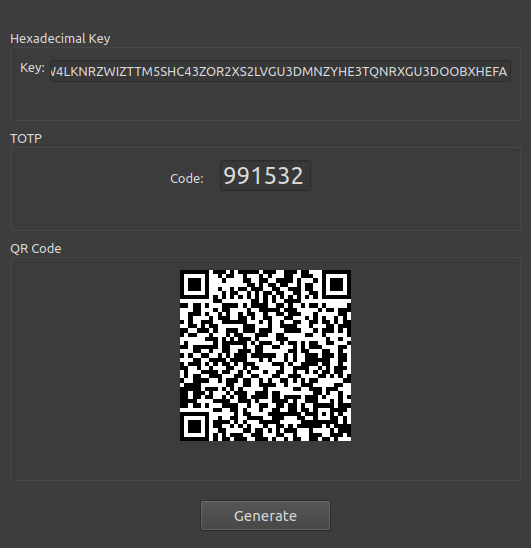
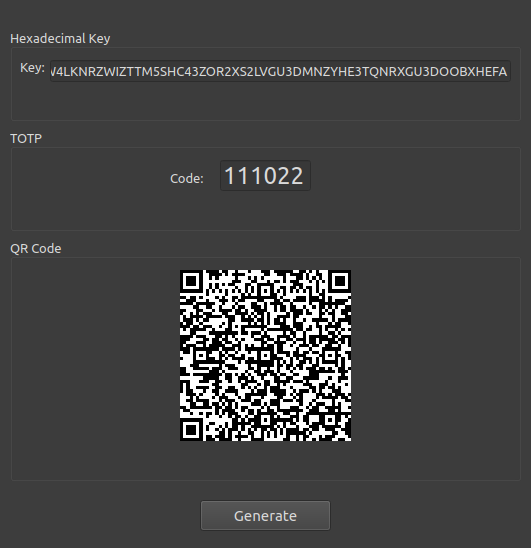
Correct QR code PNG rendering

diff --git a/core/qrencode.cpp b/core/qrencode.cpp
@@ -16,7 +16,7 @@
  * For a scale of 10 and margin of 4 modules,
  * it will be sufficiently large and compatible with most QR code scanners.
  */
-void saveQRCodeAsPNG(QRcode *qrcode, const char *filename, int scale) {
+void saveQRCodeAsPNG(QRcode *qrcode, const char *filename, int scale = OTP_QRCODE_SCALE) {
     // Define Dimensions for the image
     int size = qrcode->width;
     int png_width = size * scale; // Factor to scale up each QR code module for better readability.
@@ -85,23 +85,29 @@ void saveQRCodeAsPNG(QRcode *qrcode, const char *filename, int scale) {
      * Outer loop (y): Iterates over rows.
      * Inner loop (x): Iterates over pixels in the row.
      */
-    for (int y = 0; y < total_size; ++y) {
-        for (int x = 0; x < total_size; ++x) {
-            // Determine if the pixel is within the QR code area.
-            int module_x = (x - margin) / scale;
-            int module_y = (y - margin) / scale;
 
-            // Determine if the current pixel corresponds to a black module.
-            bool isModule = (module_x >= 0 && module_x < size &&
-                             module_y >= 0 && module_y < size &&
-                             (qrcode->data[module_y * size + module_x] & 0x01));
+	for (int y = 0; y < total_size; ++y) {
+		for (int x = 0; x < total_size; ++x) {
+			if (x < margin || x >= total_size - margin ||
+				y < margin || y >= total_size - margin)
+			{
+				row[x] = 0xFF; // White border
+			} else {
+            	// Determine if the pixel is within the QR code area.
+				int module_x = (x - margin) / scale;
+				int module_y = (y - margin) / scale;
 
-            // Set pixel color (black: 0x00, white: 0xFF).
-            row[x] = isModule ? 0x00 : 0xFF; // Black or white
-        }
+				bool isModule = (module_x >= 0 && module_x < size &&
+								 module_y >= 0 && module_y < size &&
+								 (qrcode->data[module_y * size + module_x] & 0x01));
+
+            	// Set pixel color (black: 0x00, white: 0xFF).
+				row[x] = isModule ? 0x00 : 0xFF;
+			}
+		}
         // Write the row to the PNG file.
-        png_write_row(png, row);
-    }
+		png_write_row(png, row);
+	}
 
     free(row);
 
@@ -171,7 +177,7 @@ void generateQRcodePNGFromSecret(const std::string secret, bool verbose)
             std::string filetype = ".png";
             std::string filename = OTP_QRCODE_FILE + filetype;
 
-            saveQRCodeAsPNG(qrcode, filename.c_str(), OTP_QRCODE_SCALE);
+            saveQRCodeAsPNG(qrcode, filename.c_str());
             QRcode_free(qrcode);
         } else {
             throw OpenFileException();

diff --git a/README.md b/README.md
@@ -120,10 +120,15 @@ cd gui
 
 
 ## QR Code Generation for TOTP Secrets
-* QR codes can be generated from command line (for testing)
+* QR codes can be generated and read from command line for testing:
 ```
+// Generate QR code image
 sudo apt install qrencode
-qrencode -o qrcode.png keys/key.hex
+qrencode -o qrcode.png $(cat keys/key.hex)
+
+// Read QR code image
+sudo apt install zbar-tools
+zbarimg qrcode.png
 ```
 * This program generates a QR code for a TOTP (Time-based One-Time Password) secret, saving it as a PNG image file. The process involves creating a QR code based on the **Key URI Format**, which can be scanned by standard QR code readers for seamless OTP setup.
 
